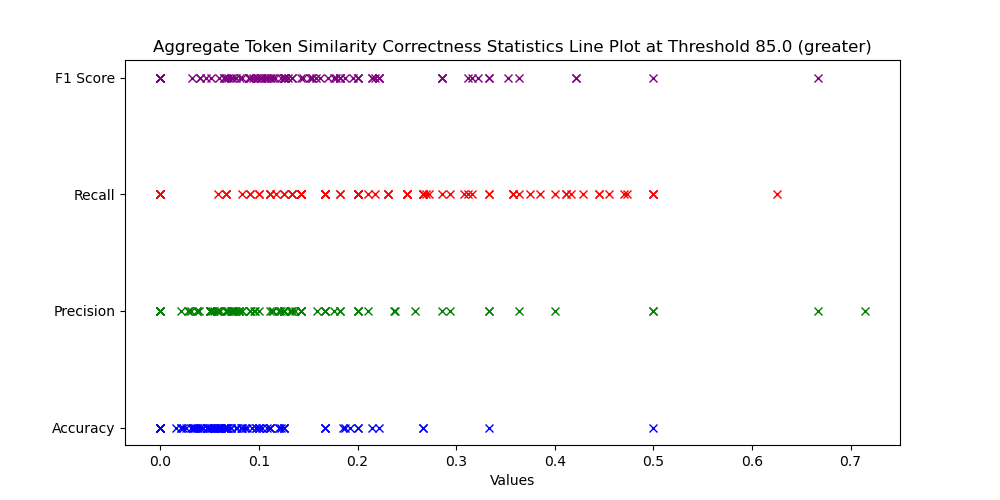
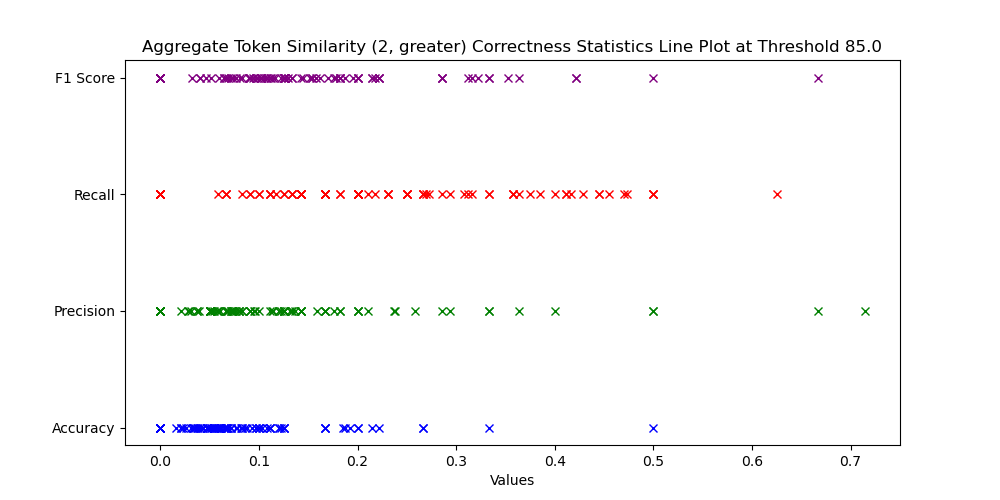
rename

Changed region(s): [[0.124, 0.06, 0.899, 0.12]]

diff --git a/plot_results.py b/plot_results.py
@@ -133,7 +133,7 @@ def plot_token_similarity(alg_num_threshold, alg_direction):
     # Plot box plot
     fig, ax = plt.subplots(figsize=(10, 5))
     ax.bxp(box_plot_data)
-    ax.set_title(f'Aggregate Token Similarity Correctness Statistics Box Plot at Threshold {max_f1_threshold} ({alg_direction})')
+    ax.set_title(f'Aggregate Token Similarity ({alg_num_threshold}, {alg_direction}) Correctness Statistics Box Plot at Threshold {max_f1_threshold}')
     ax.set_ylabel('Values')
     ax.grid(True, linestyle='--', linewidth=0.5)
     box_plot_filename = os.path.join(PLOT_PATH, f'token_similarity_{alg_num_threshold}_{alg_direction}_box_plot.png')
@@ -166,7 +166,7 @@ def plot_token_similarity(alg_num_threshold, alg_direction):
     ax.set_xlabel('Values')
     ax.set_yticks([1, 2, 3, 4])
     ax.set_yticklabels(['Accuracy', 'Precision', 'Recall', 'F1 Score'])
-    ax.set_title(f'Aggregate Token Similarity Correctness Statistics Line Plot at Threshold {max_f1_threshold} ({alg_direction})')
+    ax.set_title(f'Aggregate Token Similarity ({alg_num_threshold}, {alg_direction}) Correctness Statistics Line Plot at Threshold {max_f1_threshold}')
     line_plot_filename = os.path.join(PLOT_PATH, f'token_similarity_{alg_num_threshold}_{alg_direction}_line_plot.png')
     plt.savefig(line_plot_filename)
     plt.show()
